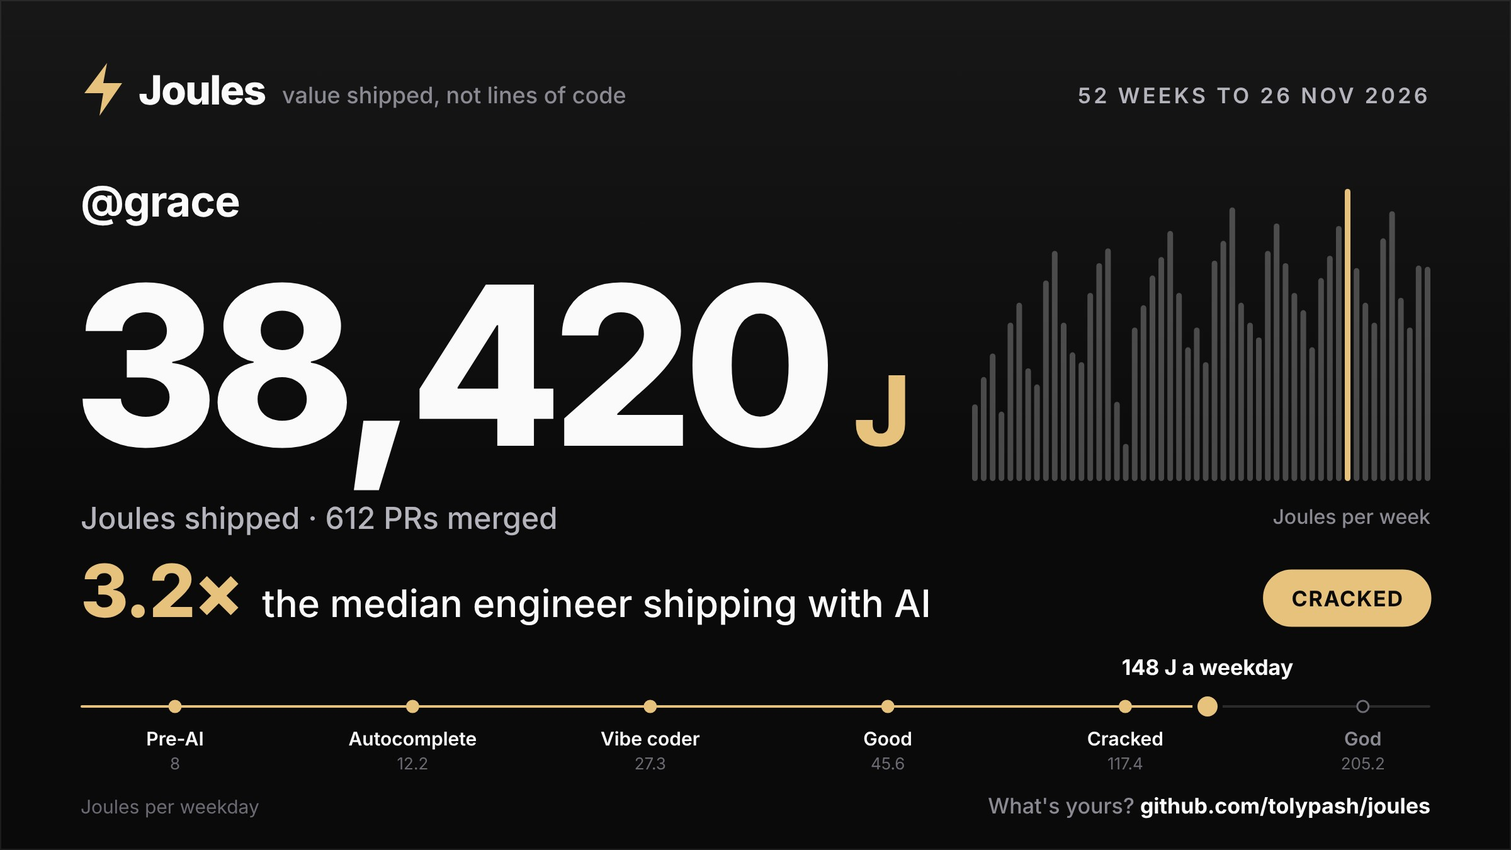
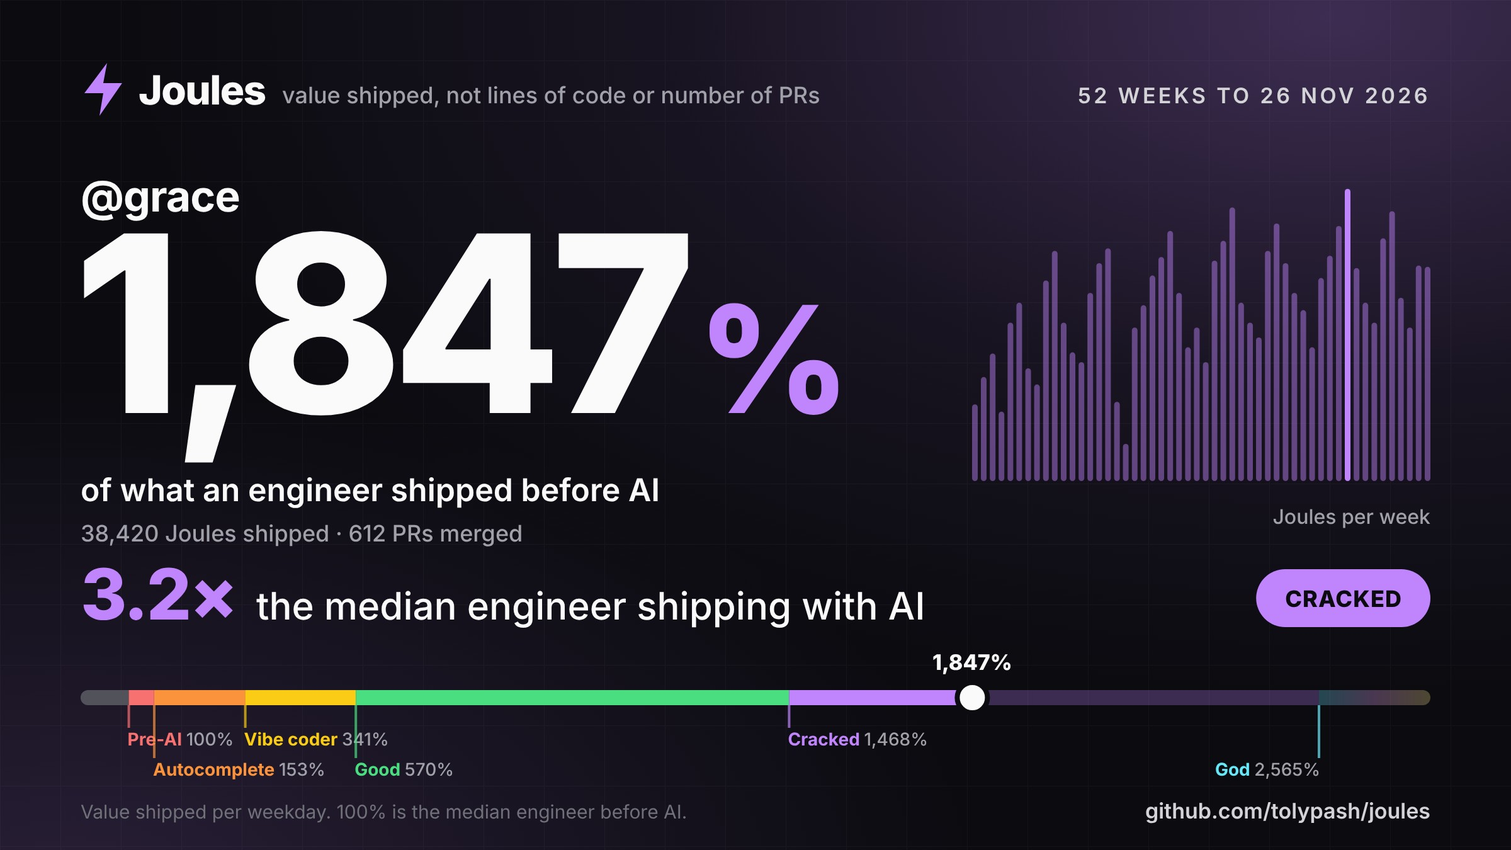
The card leads with output %, in the colour of the rung reached
The hero number is now output: Joules per weekday as a percentage of
the median engineer before AI (the efficiency the team view shows; a
team's own pre-AI line with --baseline). Each rung has a colour
(Pre-AI red, Autocomplete orange, Vibe coder yellow, Good green,
Cracked purple, God all of them), the card takes the colour of the one
reached, and the line is drawn to scale. Plainer copy throughout.

Claude-Session: https://claude.ai/code/session_01B6kwwXXEz5JkdTico7Mgs8

diff --git a/skill/joules/card.html b/skill/joules/card.html
@@ -17,11 +17,11 @@
   .actions { display: flex; flex-wrap: wrap; gap: 10px; margin: 28px 0 14px; }
   .actions button, .actions a { font: inherit; font-weight: 600; padding: 11px 20px; border-radius: 999px; border: 1px solid rgba(255, 255, 255, 0.16); background: #18181b; color: #fafafa; cursor: pointer; text-decoration: none; }
   .actions button:hover, .actions a:hover { background: #27272a; }
-  .actions .main { background: #e7c27d; border-color: #e7c27d; color: #18181b; }
-  .actions .main:hover { background: #f0d49c; }
+  .actions .main { background: #fafafa; border-color: #fafafa; color: #18181b; }
+  .actions .main:hover { background: #e4e4e7; }
   textarea { box-sizing: border-box; width: 100%; min-height: 128px; padding: 12px 14px; border-radius: 12px; border: 1px solid rgba(255, 255, 255, 0.12); background: #0f0f12; color: #e4e4e7; font: inherit; resize: vertical; }
   p { color: #a1a1aa; font-size: 14px; margin: 10px 0 0; }
-  .png body { background: #0a0a0b; overflow: hidden; }
+  .png body { background: #0b0b10; overflow: hidden; }
   .png main { max-width: none; padding: 0; }
   .png #card svg { width: 1200px; height: 675px; border-radius: 0; box-shadow: none; }
   .png .actions, .png textarea, .png p { display: none; }
@@ -40,49 +40,49 @@
 </main>
 <script>
 // The numbers on the card: replace this one line. `bars` is Joules over time, oldest first (per day, or per week for a year).
+// Optional `baseline`: a team's own Joules per weekday before AI, in place of the measured 8.
 const DATA = {"who":"@ada","period":"4 weeks to 26 Nov 2026","joules":1612,"weekdays":20,"prs":41,"bars":[64,0,0,38,112,71,0,96,0,12,45,134,88,57,120,0,0,76,41,163,92,68,9,0,54,108,85,79]};
 
 // Joules per weekday, measured (data/): the median engineer before AI, then engineers shipping with AI at the
 // 25th and 40th percentile, the median, the top 10% and the highest. The names are ours.
 const LADDER = [["Pre-AI", 8], ["Autocomplete", 12.2], ["Vibe coder", 27.3], ["Good", 45.6], ["Cracked", 117.4], ["God", 205.2]];
 const MEDIAN = 45.6;
+const COLORS = { "Pre-AI": "#f87171", Autocomplete: "#fb923c", "Vibe coder": "#facc15", Good: "#4ade80", Cracked: "#c084fc", God: "#67e8f9" };
 const LINK = "github.com/tolypash/joules";
 const W = 1200;
 const H = 675;
 const PAD = 64;
-const GOLD = "#e7c27d";
 
 const esc = (s) => String(s).replace(/[&<>"]/g, (c) => ({ "&": "&amp;", "<": "&lt;", ">": "&gt;", '"': "&quot;" })[c]);
 const whole = (n) => Math.round(n).toLocaleString("en-US");
 /** One decimal under 100 (45.6), none above (117). */
 const short = (n) => (n >= 100 ? whole(n) : String(Math.round(n * 10) / 10));
 
+// Output: Joules per weekday as a percentage of the median engineer before AI (or the team's own pre-AI line, `baseline`).
+const baseline = DATA.baseline || LADDER[0][1];
+const pct = (joulesPerWeekday) => (joulesPerWeekday / baseline) * 100;
 const perWeekday = DATA.joules / Math.max(1, DATA.weekdays);
+const output = `${whole(pct(perWeekday))}%`;
 const times = perWeekday / MEDIAN;
 const timesText = `${times >= 10 ? whole(times) : short(times)}×`;
-/** The highest rung reached, if any. */
-const rank = LADDER.filter(([, v]) => perWeekday >= v).pop()?.[0] ?? "";
-
-/** Where a Joules-per-weekday value sits along the line: the rungs are evenly spaced, straight in between. */
-function along(v) {
-  const stop = (i) => 0.07 + (0.88 * i) / (LADDER.length - 1);
-  if (v <= LADDER[0][1]) return (stop(0) * v) / LADDER[0][1];
-  for (let i = 1; i < LADDER.length; i++) {
-    const [lo, hi] = [LADDER[i - 1][1], LADDER[i][1]];
-    if (v <= hi) return stop(i - 1) + ((stop(i) - stop(i - 1)) * (v - lo)) / (hi - lo);
-  }
-  return Math.min(0.99, stop(LADDER.length - 1) + (0.04 * (v - LADDER.at(-1)[1])) / LADDER.at(-1)[1]);
-}
+/** The highest rung reached, if any. A team's own pre-AI line moves the first rung to it. */
+const rungs = LADDER.map(([name, v], i) => ({ name, v: i ? v : baseline, color: COLORS[name] })).filter((r, i) => !i || r.v > baseline);
+const rank = rungs.filter((r) => perWeekday >= r.v).pop();
 
 function draw() {
-  const total = whole(DATA.joules);
-  const size = total.length <= 3 ? 224 : total.length <= 5 ? 200 : total.length === 6 ? 176 : 150;
+  const color = rank?.color ?? "#a1a1aa";
+  // God is every colour at once.
+  const paint = rank?.name === "God" ? "url(#god)" : color;
+  const digits = whole(pct(perWeekday));
+  const size = digits.length <= 5 ? 196 : digits.length === 6 ? 168 : 144;
   const track = W - 2 * PAD;
-  const at = (v) => PAD + track * along(v);
+  // The line is to scale: twice the output sits twice as far along.
+  const end = Math.max(rungs.at(-1).v * 1.09, perWeekday * 1.04);
+  const at = (v) => PAD + (track * v) / end;
   const you = at(perWeekday);
-  const youAnchor = you < 160 ? "start" : you > W - 160 ? "end" : "middle";
+  const youAnchor = you < 170 ? "start" : you > W - 170 ? "end" : "middle";
 
-  // Joules over time, as a skyline on the right: quiet bars, the best one in gold.
+  // Joules over time, as a skyline on the right, the best bar at full strength.
   const bars = (DATA.bars ?? []).map(Number);
   const box = { x: 772, y: 150, w: W - PAD - 772, h: 232 };
   const gap = bars.length > 30 ? 2.5 : bars.length > 14 ? 4 : 10;
@@ -91,60 +91,71 @@ function draw() {
   const skyline = bars
     .map((j, i) => {
       const h = j > 0 ? Math.max(6, (j / tallest) * box.h) : 3;
-      const fill = j === tallest ? `fill="${GOLD}"` : `fill="#fafafa" opacity="${j > 0 ? 0.26 : 0.1}"`;
-      return `<rect x="${(box.x + i * (bw + gap)).toFixed(1)}" y="${(box.y + box.h - h).toFixed(1)}" width="${bw.toFixed(1)}" height="${h.toFixed(1)}" rx="${Math.min(3, bw / 2).toFixed(1)}" ${fill}/>`;
+      return `<rect x="${(box.x + i * (bw + gap)).toFixed(1)}" y="${(box.y + box.h - h).toFixed(1)}" width="${bw.toFixed(1)}" height="${h.toFixed(1)}" rx="${Math.min(3, bw / 2).toFixed(1)}" fill="${paint}" opacity="${j === tallest ? 1 : j > 0 ? 0.45 : 0.18}"/>`;
     })
     .join("");
   const chart = bars.length
-    ? `${skyline}<text x="${W - PAD}" y="${box.y + box.h + 34}" text-anchor="end" font-size="16" font-weight="500" fill="#8a8a93">Joules per ${bars.length > 31 ? "week" : "day"}</text>`
+    ? `${skyline}<text x="${W - PAD}" y="${box.y + box.h + 34}" text-anchor="end" font-size="16" font-weight="500" fill="#a1a1aa">Joules per ${bars.length > 31 ? "week" : "day"}</text>`
     : "";
 
-  // The rung reached sits in a pill (filled from Cracked up); textLength pins the text to the width the pill was sized for.
-  const pillText = rank.toUpperCase();
-  const pillW = pillText.length * 12.6 + 44;
-  const filled = perWeekday >= LADDER.at(-2)[1];
+  // The rung reached, in its colour; textLength pins the text to the width the pill was sized for.
+  const pillText = (rank?.name ?? "").toUpperCase();
+  const pillW = pillText.length * 13.2 + 46;
   const pill = rank
-    ? `<rect x="${W - PAD - pillW}" y="453" width="${pillW}" height="44" rx="22" fill="${filled ? GOLD : "none"}" stroke="${GOLD}" stroke-width="1.5"/>
-<text x="${W - PAD - pillW / 2}" y="481.5" text-anchor="middle" font-size="17" font-weight="700" fill="${filled ? "#0a0a0b" : GOLD}" textLength="${pillW - 44}" lengthAdjust="spacing">${esc(pillText)}</text>`
+    ? `<rect x="${W - PAD - pillW}" y="452" width="${pillW}" height="46" rx="23" fill="${paint}"/>
+<text x="${W - PAD - pillW / 2}" y="482" text-anchor="middle" font-size="18" font-weight="800" fill="#0b0b10" textLength="${pillW - 46}" lengthAdjust="spacing">${esc(pillText)}</text>`
     : "";
 
-  const rungs = LADDER.map(([name, v]) => {
-    const reached = perWeekday >= v;
-    return `<circle cx="${at(v).toFixed(1)}" cy="561" r="4.5" fill="${reached ? GOLD : "#0a0a0b"}" stroke="${reached ? GOLD : "#6b6b74"}" stroke-width="1.5"/>
-<text x="${at(v).toFixed(1)}" y="592" text-anchor="middle" font-size="15" font-weight="600" fill="${reached ? "#fafafa" : "#8a8a93"}">${name}</text>
-<text x="${at(v).toFixed(1)}" y="611" text-anchor="middle" font-size="13" fill="#6b6b74">${v}</text>`;
-  }).join("\n");
+  // One coloured stretch per rung, from where it starts to where the next does; what lies past "you" is dimmed.
+  const stretch = (from, to, fill) => `<rect x="${from.toFixed(1)}" y="548" width="${Math.max(0, to - from).toFixed(1)}" height="12" fill="${fill}"/>`;
+  const line = [stretch(PAD, at(rungs[0].v), "#52525b"), ...rungs.map((r, i) => stretch(at(r.v), i + 1 < rungs.length ? at(rungs[i + 1].v) : W - PAD, r.name === "God" ? "url(#god)" : r.color))].join("");
+  // Names alternate between two rows, so rungs that sit close together still read.
+  const names = rungs
+    .map((r, i) => {
+      const x = at(r.v);
+      const y = i % 2 ? 616 : 592;
+      const last = i === rungs.length - 1;
+      return `<rect x="${(x - 1).toFixed(1)}" y="560" width="2" height="${y - 574}" fill="${r.color}" opacity="0.7"/>
+<text x="${(last ? x + 1 : x - 1).toFixed(1)}" y="${y}" text-anchor="${last ? "end" : "start"}" font-size="14" font-weight="700" fill="${r.color}">${r.name} <tspan font-weight="500" fill="#a1a1aa">${whole(pct(r.v))}%</tspan></text>`;
+    })
+    .join("\n");
 
-  return `<svg xmlns="http://www.w3.org/2000/svg" width="${W}" height="${H}" viewBox="0 0 ${W} ${H}" role="img" aria-label="${esc(`${DATA.who}: ${total} Joules, ${DATA.period}`)}">
+  return `<svg xmlns="http://www.w3.org/2000/svg" width="${W}" height="${H}" viewBox="0 0 ${W} ${H}" role="img" aria-label="${esc(`${DATA.who}: ${output} output, ${DATA.period}`)}">
 <defs>
 <style>@font-face{font-family:InterCard;font-weight:100 900;src:url(data:font/woff2;base64,${FONT}) format("woff2")}text{font-family:InterCard,Inter,system-ui,-apple-system,"Segoe UI",Helvetica,Arial,sans-serif}</style>
-<linearGradient id="sheen" x1="0" y1="0" x2="0" y2="1"><stop offset="0" stop-color="#fafafa" stop-opacity="0.055"/><stop offset="0.6" stop-color="#fafafa" stop-opacity="0"/></linearGradient>
+<linearGradient id="god" x1="0" y1="0" x2="1" y2="0"><stop offset="0" stop-color="#67e8f9"/><stop offset="0.5" stop-color="#f0abfc"/><stop offset="1" stop-color="#fde68a"/></linearGradient>
+<radialGradient id="aura" cx="0.88" cy="0.02" r="0.8"><stop offset="0" stop-color="${color}" stop-opacity="0.28"/><stop offset="0.55" stop-color="${color}" stop-opacity="0.07"/><stop offset="1" stop-color="${color}" stop-opacity="0"/></radialGradient>
+<radialGradient id="floor" cx="0.05" cy="1.05" r="0.6"><stop offset="0" stop-color="${color}" stop-opacity="0.16"/><stop offset="1" stop-color="${color}" stop-opacity="0"/></radialGradient>
+<pattern id="grid" width="48" height="48" patternUnits="userSpaceOnUse"><path d="M48 0H0V48" fill="none" stroke="#fafafa" stroke-opacity="0.035"/></pattern>
+<clipPath id="round"><rect x="${PAD}" y="548" width="${track}" height="12" rx="6"/></clipPath>
+<clipPath id="done"><rect x="0" y="540" width="${you.toFixed(1)}" height="30"/></clipPath>
 </defs>
-<rect width="${W}" height="${H}" fill="#0a0a0b"/>
-<rect width="${W}" height="${H}" fill="url(#sheen)"/>
-<rect x="0.5" y="0.5" width="${W - 1}" height="${H - 1}" fill="none" stroke="#fafafa" stroke-opacity="0.08"/>
+<rect width="${W}" height="${H}" fill="#0b0b10"/>
+<rect width="${W}" height="${H}" fill="url(#grid)"/>
+<rect width="${W}" height="${H}" fill="url(#aura)"/>
+<rect width="${W}" height="${H}" fill="url(#floor)"/>
 
-<polygon points="${PAD + 21},50 ${PAD + 3},74 ${PAD + 18},74 ${PAD + 15},92 ${PAD + 33},66 ${PAD + 18},66" fill="${GOLD}"/>
+<polygon points="${PAD + 21},50 ${PAD + 3},74 ${PAD + 18},74 ${PAD + 15},92 ${PAD + 33},66 ${PAD + 18},66" fill="${paint}"/>
 <text x="${PAD + 46}" y="83" font-size="32" font-weight="800" letter-spacing="-0.8" fill="#fafafa">Joules</text>
-<text x="${PAD + 160}" y="82" font-size="18" font-weight="500" fill="#8a8a93">value shipped, not lines of code</text>
-<text x="${W - PAD}" y="82" text-anchor="end" font-size="17" font-weight="600" letter-spacing="2.2" fill="#b4b4bd">${esc(String(DATA.period).toUpperCase())}</text>
+<text x="${PAD + 160}" y="82" font-size="18" font-weight="500" fill="#a1a1aa">value shipped, not lines of code or number of PRs</text>
+<text x="${W - PAD}" y="82" text-anchor="end" font-size="17" font-weight="600" letter-spacing="2.2" fill="#d4d4d8">${esc(String(DATA.period).toUpperCase())}</text>
 
-<text x="${PAD}" y="172" font-size="34" font-weight="700" letter-spacing="-0.5" fill="#fafafa">${esc(DATA.who)}</text>
-<text x="${PAD - 6}" y="354" font-size="${size}" font-weight="800" letter-spacing="${(-size * 0.045).toFixed(1)}" fill="#fafafa">${total}<tspan dx="${(size * 0.12).toFixed(0)}" font-size="${(size * 0.44).toFixed(0)}" letter-spacing="0" fill="${GOLD}">J</tspan></text>
-<text x="${PAD}" y="420" font-size="24" font-weight="500" fill="#b4b4bd">Joules shipped${DATA.prs ? ` · ${whole(DATA.prs)} PR${DATA.prs === 1 ? "" : "s"} merged` : ""}</text>
+<text x="${PAD}" y="168" font-size="34" font-weight="700" letter-spacing="-0.5" fill="#fafafa">${esc(DATA.who)}</text>
+<text x="${PAD - 6}" y="328" font-size="${size}" font-weight="800" letter-spacing="${(-size * 0.045).toFixed(1)}" fill="#fafafa">${digits}<tspan dx="${(size * 0.05).toFixed(0)}" font-size="${(size * 0.6).toFixed(0)}" letter-spacing="0" fill="${paint}">%</tspan></text>
+<text x="${PAD}" y="398" font-size="25" font-weight="600" fill="#fafafa">of what an engineer shipped before AI</text>
+<text x="${PAD}" y="430" font-size="18" font-weight="500" fill="#a1a1aa">${whole(DATA.joules)} Joules shipped${DATA.prs ? ` · ${whole(DATA.prs)} PR${DATA.prs === 1 ? "" : "s"} merged` : ""}</text>
 ${chart}
 
-<text x="${PAD}" y="490" font-size="30" font-weight="500" fill="#fafafa"><tspan font-size="58" font-weight="800" letter-spacing="-1.5" fill="${GOLD}">${timesText}</tspan><tspan dx="16">the median engineer shipping with AI</tspan></text>
+<text x="${PAD}" y="492" font-size="30" font-weight="500" fill="#fafafa"><tspan font-size="56" font-weight="800" letter-spacing="-1.5" fill="${paint}">${timesText}</tspan><tspan dx="16">the median engineer shipping with AI</tspan></text>
 ${pill}
 
-<rect x="${PAD}" y="560" width="${track}" height="2" rx="1" fill="#fafafa" opacity="0.14"/>
-<rect x="${PAD}" y="560" width="${Math.max(4, you - PAD).toFixed(1)}" height="2" rx="1" fill="${GOLD}"/>
-${rungs}
-<circle cx="${you.toFixed(1)}" cy="561" r="10" fill="${GOLD}" stroke="#0a0a0b" stroke-width="4"/>
-<text x="${(youAnchor === "middle" ? you : youAnchor === "start" ? you - 10 : you + 10).toFixed(1)}" y="536" text-anchor="${youAnchor}" font-size="17" font-weight="700" fill="#fafafa">${short(perWeekday)} J a weekday</text>
+<g clip-path="url(#round)"><g opacity="0.28">${line}</g><g clip-path="url(#done)">${line}</g></g>
+${names}
+<circle cx="${you.toFixed(1)}" cy="554" r="12" fill="#fafafa" stroke="#0b0b10" stroke-width="4"/>
+<text x="${(youAnchor === "middle" ? you : youAnchor === "start" ? you - 12 : you + 12).toFixed(1)}" y="532" text-anchor="${youAnchor}" font-size="17" font-weight="800" fill="#fafafa">${output}</text>
 
-<text x="${PAD}" y="646" font-size="15" fill="#6b6b74">Joules per weekday</text>
-<text x="${W - PAD}" y="646" text-anchor="end" font-size="17" font-weight="500" fill="#8a8a93">What's yours? <tspan font-weight="700" fill="#fafafa">${LINK}</tspan></text>
+<text x="${PAD}" y="650" font-size="15" fill="#71717a">Value shipped per weekday. 100% is the median engineer before AI.</text>
+<text x="${W - PAD}" y="650" text-anchor="end" font-size="17" font-weight="600" fill="#d4d4d8">${LINK}</text>
 </svg>`;
 }
 
@@ -171,7 +182,7 @@ function start() {
   document.getElementById("card").innerHTML = markup;
 
   const text = document.getElementById("text");
-  text.value = `⚡ ${whole(DATA.joules)} Joules shipped · ${DATA.period}\n${short(perWeekday)} J a weekday, ${timesText} the median engineer with AI${rank ? ` (${rank === "Pre-AI" ? "pre-AI" : rank.toLowerCase()} level)` : ""}\n\nWhat's yours? ${LINK}`;
+  text.value = `⚡ ${output} output · ${DATA.period}\n${timesText} the median engineer shipping with AI${rank ? ` (${rank.name})` : ""}\n\n${LINK}`;
   const post = document.getElementById("post");
   const link = () => (post.href = `https://x.com/intent/post?text=${encodeURIComponent(text.value)}`);
   text.addEventListener("input", link);

diff --git a/src/cli.ts b/src/cli.ts
@@ -21,7 +21,7 @@ const HELP = `joules: score the value each pull request ships
   joules stats --repos a/b,c/d [--days 30]     per engineer: weekly Joules, typical day, rework (--html out.html, --title, --names login=Name,…, --note, --people a,b, --baseline J from calibrate, --part-time login=0.5)
   joules calibrate --repos a/b,c/d             the pre-AI baseline: Joules per weekday of full-time engineers (--from 2024-10-01 --to 2024-12-31 --sample 12 --min-weeks 8; --commits for teams that commit without PRs)
   joules settle <owner/repo> [--write]         settle PRs merged 14+ days ago (reverts, follow-up fixes); run it daily
-  joules card [--period week|month|year]       your Joules as a card to share, against the median engineer with AI (--repos a/b,c/d, default this repo; --me login, default you; --html out.html; --names login=Name)
+  joules card [--period week|month|year]       your Joules as a card to share, against the median engineer with AI (--repos a/b,c/d, default this repo; --me login, default you; --html out.html; --names login=Name; --baseline J from calibrate)
 
   --model haiku        Claude model (alias or full id)
   --cache file.jsonl   where scores are kept (default joules-cache.jsonl)
@@ -124,13 +124,13 @@ else if (command === "score") {
   if (!(period in PERIODS)) throw new Error(`--period is week, month or year, got ${values.period}`);
   const me = values.me ?? (await gh<{ login: string }>("/user")).login;
   const scored = await collect({ ...options, repos: repos.length ? repos : [await originRepo()], days: PERIODS[period].days, compare: false });
-  const card = cardOf(scored.filter((s) => s.author === me), period, pairs(values.names)[me] ?? `@${me}`);
+  const card = { ...cardOf(scored.filter((s) => s.author === me), period, pairs(values.names)[me] ?? `@${me}`), ...(values.baseline && { baseline: Number(values.baseline) }) };
   if (!card.joules) throw new Error(`Nothing by ${me} merged in the last ${PERIODS[period].label}: check --repos and --me`);
   const page = values.html ?? "joules-card.html";
   const image = page.replace(/(\.html?)?$/, ".png");
   writeFileSync(page, cardHtml(card));
   const perWeekday = card.joules / card.weekdays;
-  console.log(`⚡ ${card.joules.toLocaleString("en-US")} J · ${card.period} · ${Math.round(perWeekday * 10) / 10} J a weekday, ${Math.round((perWeekday / GOOD) * 10) / 10}× the median engineer with AI`);
+  console.log(`⚡ ${Math.round((perWeekday / (card.baseline ?? BASELINE)) * 100).toLocaleString("en-US")}% output · ${card.period} · ${card.joules.toLocaleString("en-US")} J, ${Math.round((perWeekday / GOOD) * 10) / 10}× the median engineer with AI`);
   console.log(cardPng(page, image) ? `${image}: the card, ready to post` : "No Chrome found for the PNG: use Download PNG on the page (or set CHROME_PATH)");
   console.log(`${page}: open it to copy the image and post on X with the text ready`);
   // In a terminal, show it; an agent or a script gets the paths above.

diff --git a/src/card.ts b/src/card.ts
@@ -6,10 +6,11 @@ import { DAY } from "./settle.ts";
 
 /**
  * The share card: one person's Joules over a window, as numbers only (no repo names, no PR titles), so it
- * is safe to post from private work. skill/joules/card.html draws it and works out the rest: Joules per
- * weekday, how many times the median engineer with AI that is, and the rank.
+ * is safe to post from private work. skill/joules/card.html draws it and works out the rest: output (Joules
+ * per weekday as a % of the pre-AI line, `baseline` when the team measured its own), how many times the
+ * median engineer with AI that is, and the rung reached.
  */
-export type Card = { who: string; period: string; joules: number; weekdays: number; prs: number; bars: number[] };
+export type Card = { who: string; period: string; joules: number; weekdays: number; prs: number; bars: number[]; baseline?: number };
 
 /** Windows ending now: the days counted, the days in one bar, and how the card names it. */
 export const PERIODS = {

diff --git a/skill/joules/SKILL.md b/skill/joules/SKILL.md
@@ -61,7 +61,7 @@ So with AI the median engineer ships about 5.7× the Joules of the median engine
 
 ## Share your Joules
 
-When someone asks to share their Joules (a card, a post, "my week in Joules"), make their card: one image with their total, their Joules per weekday, and where that sits on the ladder from Pre-AI to God. It carries numbers only, no repo names or PR titles, so it is safe to post from private work.
+When someone asks to share their Joules (a card, a post, "my week in Joules"), make their card: one image with their output (their efficiency: Joules per weekday as a % of the pre-AI median), how many times the median engineer shipping with AI that is, and where it sits on the ladder from Pre-AI to God. It carries numbers only, no repo names or PR titles, so it is safe to post from private work.
 
 1. **Pick the window**, ending today: a week (7 days, 5 weekdays), a month (28 days, 20 weekdays; use this when they don't say) or a year (364 days, 260 weekdays).
 2. **Add up their Joules in it.** List their merged PRs with `gh search prs --author @me --merged --merged-at ">=<first day>" --limit 1000 --json url,closedAt,body` (add `--repo owner/repo` to keep to one repo). Each PR counts the `joules` in its block's JSON, or `final.joules` once it has settled. Score a PR with no block from its diff with the rubric; when there are too many, leave them out and tell the user how many.
@@ -78,9 +78,9 @@ When someone asks to share their Joules (a card, a post, "my week in Joules"), m
    google-chrome --headless --screenshot=joules-card.png --window-size=1200,675 --force-device-scale-factor=2 --virtual-time-budget=2000 "file://$PWD/joules-card.html#png"
    ```
 
-5. Tell them their line, ready to post: `⚡ 1,612 Joules shipped · 4 weeks to 26 Nov 2026 · 80.6 J a weekday, 1.8× the median engineer with AI`.
+5. Tell them their line, ready to post: `⚡ 1,007% output · 4 weeks to 26 Nov 2026 · 1.8× the median engineer shipping with AI (Good)`.
 
-The headline multiple is always against the median engineer who ships with AI too. The ladder's rungs are measured Joules per weekday with names of our own: Pre-AI (8 J a weekday), Autocomplete (12.2), Vibe coder (27.3), Good (45.6, today's median), Cracked (117.4, the top 10%) and God (205.2, the highest measured). Autocomplete and Vibe coder are the 25th and 40th percentile of engineers shipping with AI. With the Joules CLI (needs [Bun](https://bun.sh)) steps 2 to 4 are one command, which also scores PRs that have no block: `bunx joules-cli card --period month`.
+The ladder's rungs are measured output with names of our own, each in its colour and drawn to scale: Pre-AI (100%), Autocomplete (153%), Vibe coder (341%), Good (570%, today's median), Cracked (1,468%, the top 10%) and God (2,565%, the highest measured). Autocomplete and Vibe coder are the 25th and 40th percentile of engineers shipping with AI. For a team with its own pre-AI baseline, add `"baseline":14.2` to the line. With the Joules CLI (needs [Bun](https://bun.sh)) steps 2 to 4 are one command, which also scores PRs that have no block: `bunx joules-cli card --period month`.
 
 ## Shipping well with AI
 

diff --git a/README.md b/README.md
@@ -2,7 +2,7 @@
 
 See the energy your team ships.
 
-![A Joules card: 1,612 Joules shipped in four weeks, 1.8× the median engineer shipping with AI](docs/card.jpg)
+![A Joules card: 1,007% output over four weeks, 1.8× the median engineer shipping with AI](docs/card.jpg)
 
 Joules gives every pull request a score for the value it delivers: what it does, who feels it and how hard it was. Not lines of code, not PR count. With AI writing thousands of lines in minutes, those numbers stopped meaning anything. A one-line fix to a payment bug can be worth more than a 5,000-line scaffold, and Joules says so.
 
@@ -41,12 +41,13 @@ bunx joules-cli card --period year --repos acme/shop,acme/api    # or week; any 
 
 It writes `joules-card.png` (when the machine has Chrome) and opens `joules-card.html`: the card, a Copy image button, and Post on X with the text already written. Or ask your agent to "share my Joules": the skill makes the same card with no CLI.
 
-- **Measured against engineers who ship with AI too:** your Joules per weekday as a multiple of today's median, and a place on the ladder: Pre-AI (8 J a weekday), Autocomplete (12.2), Vibe coder (27.3), Good (45.6, today's median), Cracked (117.4, the top 10%) and God (205.2, the highest measured).
+- **One number: your output.** Joules per weekday as a percentage of what an engineer shipped before AI (the same efficiency the team view shows), and next to it how many times the median engineer shipping with AI that is.
+- **A colour-coded ladder, drawn to scale:** Pre-AI (100%), Autocomplete (153%), Vibe coder (341%), Good (570%, today's median), Cracked (1,468%, the top 10%) and God (2,565%, the highest measured). The card takes the colour of the rung you reached.
 - **Numbers only.** No repo names and no PR titles, so it is safe to post from private work.
 - **Week, month or year:** the last 7 days, 4 weeks or 52 weeks, each with its skyline of Joules per day or per week.
-- **Cracked and God get a filled badge:**
 
-![A Cracked card: 38,420 Joules in 52 weeks, 3.2× the median](docs/card-cracked.jpg)
+
+![A Cracked card: 1,847% output over 52 weeks, 3.2× the median](docs/card-cracked.jpg)
 
 ## Set it up
 
